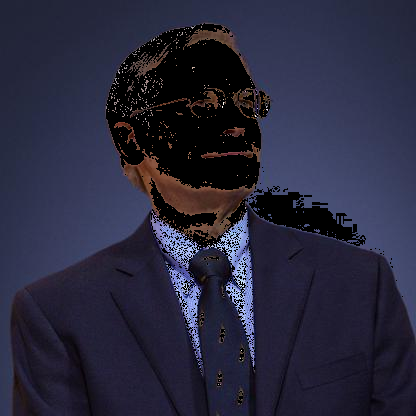
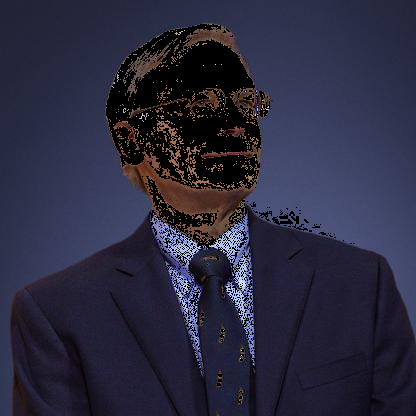
sd

diff --git a/main.py b/main.py
@@ -27,7 +27,7 @@ df_Skin_G = pd.crosstab(df.Skin, df.G, normalize='columns')
 df_R_Skin = pd.crosstab(df.R, df.Skin, normalize='columns')
 df_Skin_R = pd.crosstab(df.Skin, df.R, normalize='columns')
 print(df_Skin_B)
-print(df_B_Skin)
+print(df_B_Skin[1][100])
 
 im = Image.open('man3.jpg')  # Can be many different formats.
 pix = im.load()
@@ -41,10 +41,12 @@ for x in range(im_w):
         G = pix[x, y][1]
         B = pix[x, y][2]
 
-        sum_of_1 = df_Skin_B[B][1] + df_Skin_G[G][1] + df_Skin_R[R][1]
+        sum_of_2 = df_B_Skin[1][B] + df_G_Skin[1][G] + df_R_Skin[1][R]
+        # print(sum_of_2)
+        # sum_of_1 = df_Skin_B[B][1] + df_Skin_G[G][1] + df_Skin_R[R][1]
         # sum_of_2 = df_Skin_B[B][2] + df_Skin_B[G][2] + df_Skin_B[R][2]
-
-        if sum_of_1 > .75:
+        # if(df_Skin_)
+        if sum_of_2 > 0.015:
             pix[x, y] = (0, 0, 0)
 
 # pix[350,300] = (0, 0, 0)  # Set the RGBA Value of the image (tuple)
